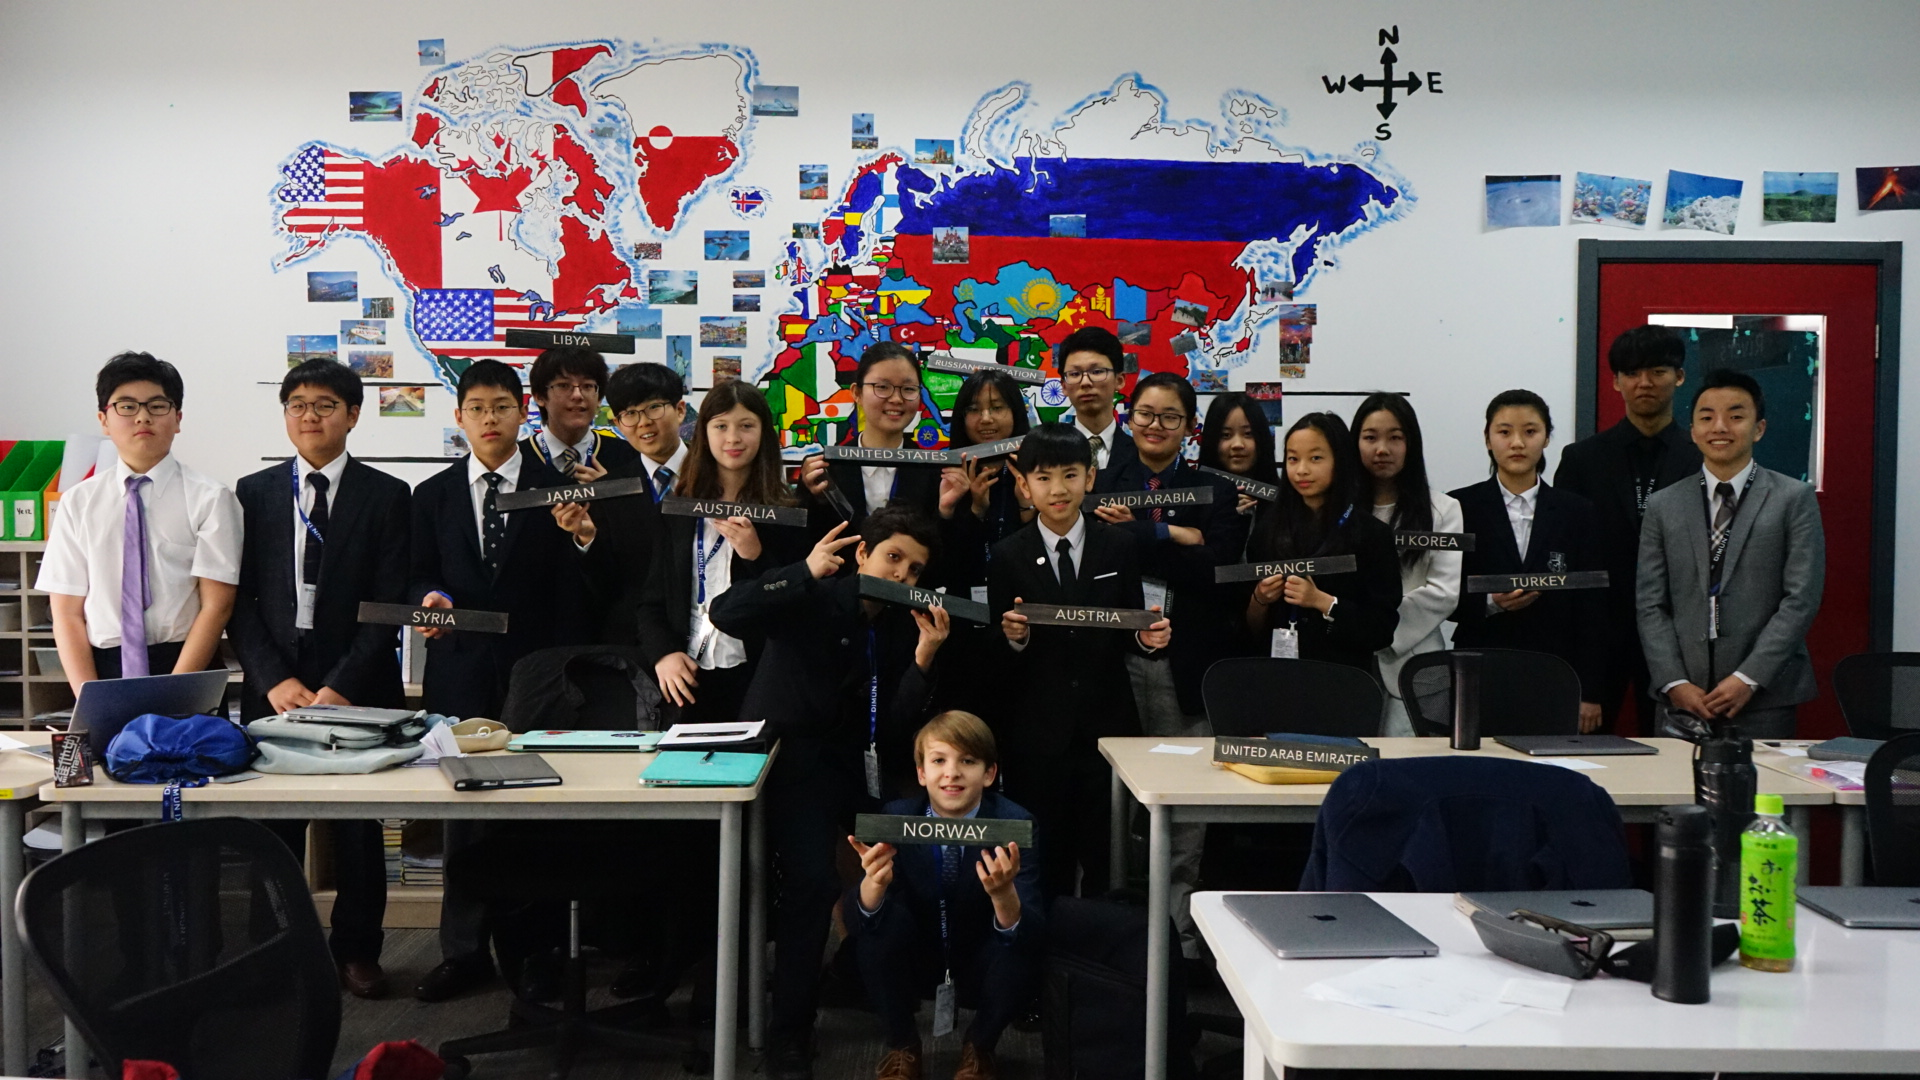
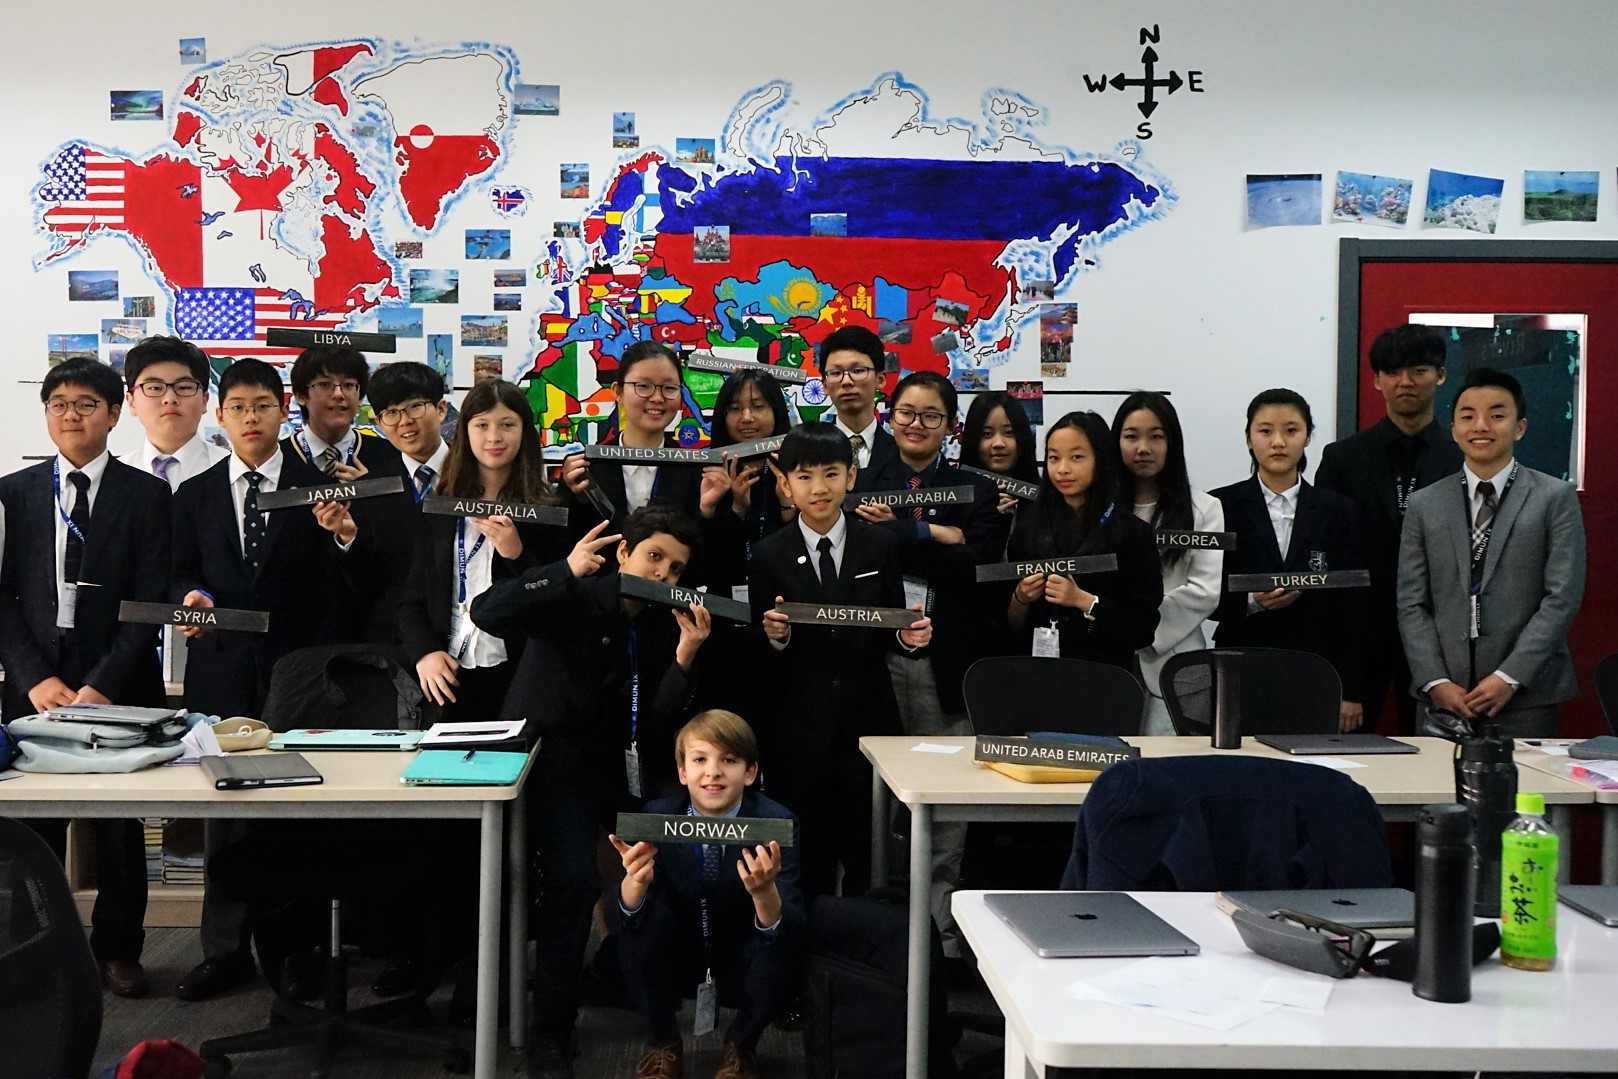
Photo updates

diff --git a/ECOSOC.html b/ECOSOC.html
@@ -90,7 +90,7 @@
     <section class="com-head">
         <div class="row" style="margin-right:0;">
             <div class="col-md-7 com-pic">
-                <img src="img/committee1.jpeg" style="height:83vh;width:auto;">
+                <img src="img/ECOSOC.jpg" style="height:83vh;width:auto;">
             </div>
             <div class="col-md-5 com-text">
                 <div class="text-center">

diff --git a/DIS.html b/DIS.html
@@ -90,7 +90,7 @@
     <section class="com-head">
         <div class="row" style="margin-right:0;">
             <div class="col-md-7 com-pic">
-                <img src="img/committee1.jpeg" style="height:83vh;width:auto;">
+                <img src="img/DIS.jpg" style="height:83vh;width:auto;">
             </div>
             <div class="col-md-5 com-text">
                 <div class="text-center">

diff --git a/GA2.html b/GA2.html
@@ -90,7 +90,7 @@
     <section class="com-head">
         <div class="row" style="margin-right:0;">
             <div class="col-md-7 com-pic">
-                <img src="img/committee1.jpeg" style="height:83vh;width:auto;">
+                <img src="img/GA2.jpg" style="height:83vh;width:auto;">
             </div>
             <div class="col-md-5 com-text">
                 <div class="text-center">
